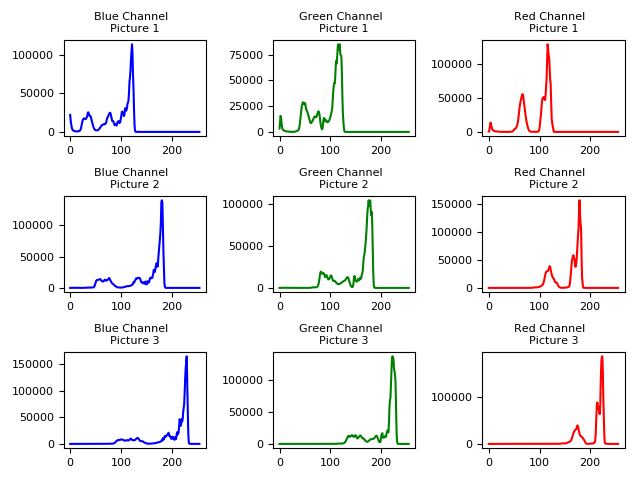
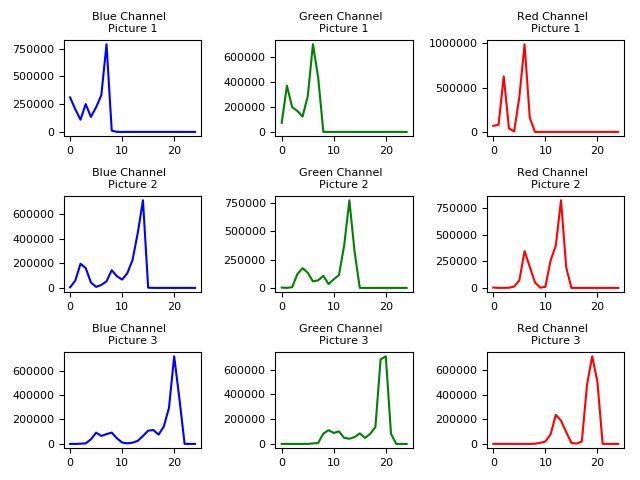
Corrected Histogram

diff --git a/hdr/exposure.py b/hdr/exposure.py
@@ -12,7 +12,7 @@ plt.rc('legend', fontsize=ct.SMALL_SIZE)    # legend fontsize
 plt.rc('figure', titlesize=ct.BIGGER_SIZE)  # fontsize of the figure title
 
 
-def generate_hdr_stack_histogram(file_name, display=ct.DONT_DISPLAY_PLOT):
+def generate_hdr_stack_histogram(file_name, g, display=ct.DONT_DISPLAY_PLOT):
     # Loads the three images from the exposure folder and generates the plots
     image1 = im.read(ct.GAMMA_READ_PATH + "/DSC_0015.JPG")
     image2 = im.read(ct.GAMMA_READ_PATH + "/DSC_0017.JPG")
@@ -20,16 +20,16 @@ def generate_hdr_stack_histogram(file_name, display=ct.DONT_DISPLAY_PLOT):
 
     images = [image1, image2, image3]
 
-    generate_histogram(file_name, images, display)
+    generate_histogram(file_name, images, g, display)
 
 
-def generate_histogram(file_name, images, display=ct.DONT_DISPLAY_PLOT):
+def generate_histogram(file_name, images, g, display=ct.DONT_DISPLAY_PLOT):
     graph_num = 0
     for i, image in enumerate(images):
         for j in range(0, 3):
             graph_num = graph_num + 1
             plt.subplot(int("33" + str(graph_num)))
-            hist = im.histogram(image, j)
+            hist = im.histogram(image, j, g[j])
             plt.plot(hist, color=ct.CHANNEL_COLOUR[j])
             plt.title(ct.CHANNEL[j] + " Channel  \nPicture " + str(i + 1))
 

diff --git a/HDR.py b/HDR.py
@@ -13,9 +13,9 @@ new_gamma_brightness, gamma_brightness, g, fits = gc.invert_gamma_correction(dis
 
 print(g)
 
-new_test_brightness = gc.compute_real_brightness_of_image(gamma_brightness, g)
+# new_test_brightness = gc.compute_real_brightness_of_image(gamma_brightness, g)
 
-xp.generate_hdr_stack_histogram(file_name="Histograms.png", display=DISPLAY)
+xp.generate_hdr_stack_histogram(file_name="Histograms.png", g=g, display=DISPLAY)
 
 image1 = im.read(ct.GAMMA_READ_PATH + "/DSC_0015.JPG")
 img = np.power(image1, 1.62)

diff --git a/utility/imageutil.py b/utility/imageutil.py
@@ -103,7 +103,9 @@ def get_average_brightness_of_images(images, callback=None):
     return [blue_array, green_array, red_array]
 
 
-def histogram(image, i):
-    return cv.calcHist([image], [i], None, [256], [0, 256])
+def histogram(image, i, g, bin_count=ct.BIN_COUNT):
+    end = np.power(255,g)
+    channel = np.float32(np.power(image, g))
+    return cv.calcHist([channel], [i], None, [ct.BIN_COUNT], [0, end])
     # ig.hist(image.ravel(), 256, [0, 256])
 

diff --git a/utility/constants.py b/utility/constants.py
@@ -36,3 +36,6 @@ WAIT_FOR_KEY_PRESS = 0
 SMALL_SIZE = 8
 MEDIUM_SIZE = 10
 BIGGER_SIZE = 12
+
+#-----------------------------------------------
+BIN_COUNT = 25
